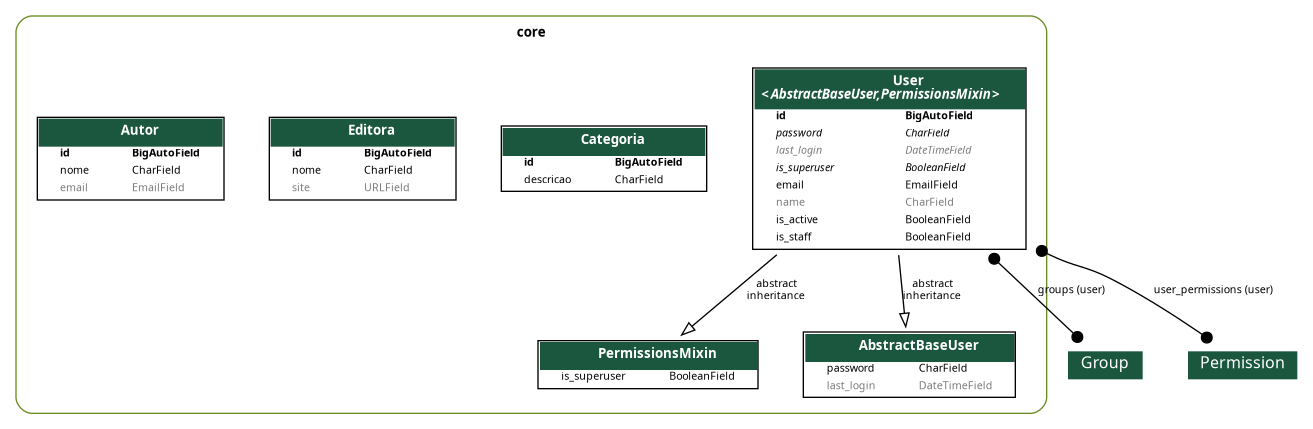
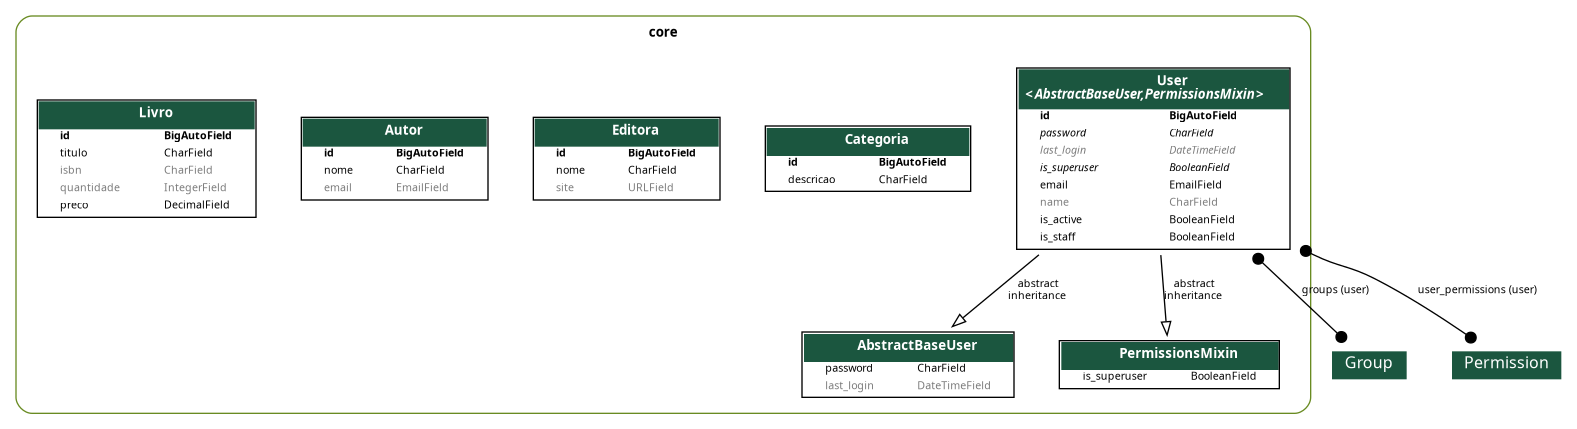
feat: criação da entidade para Livro

diff --git a/core/migrations/0010_livro.py b/core/migrations/0010_livro.py
@@ -1,0 +1,23 @@
+# Generated by Django 5.2.12 on 2026-04-07 18:57
+
+from django.db import migrations, models
+
+
+class Migration(migrations.Migration):
+
+    dependencies = [
+        ('core', '0009_autor'),
+    ]
+
+    operations = [
+        migrations.CreateModel(
+            name='Livro',
+            fields=[
+                ('id', models.BigAutoField(auto_created=True, primary_key=True, serialize=False, verbose_name='ID')),
+                ('titulo', models.CharField(max_length=100)),
+                ('isbn', models.CharField(blank=True, max_length=32, null=True)),
+                ('quantidade', models.IntegerField(blank=True, default=0, null=True)),
+                ('preco', models.DecimalField(decimal_places=2, default=0, max_digits=7)),
+            ],
+        ),
+    ]

diff --git a/app/urls.py b/app/urls.py
@@ -12,10 +12,11 @@ from rest_framework_simplejwt.views import (
     TokenVerifyView,
 )
 
-from core.views import CategoriaViewSet, EditoraViewSet, UserViewSet,AutorViewSet, UserRegistrationView
+from core.views import CategoriaViewSet, EditoraViewSet, LivroViewSet, UserViewSet,AutorViewSet, UserRegistrationView
 
 router = DefaultRouter()
 
+router.register(r'livros', LivroViewSet, basename='livro')
 router.register(r'autores', AutorViewSet, basename='autor')
 router.register(r'categorias',CategoriaViewSet)
 router.register(r'editoras', EditoraViewSet)

diff --git a/core/models/livro.py b/core/models/livro.py
@@ -1,0 +1,12 @@
+from pickle import TRUE
+
+from django.db import models
+
+class Livro(models.Model):
+    titulo = models.CharField(max_length=100)
+    isbn = models.CharField(max_length=32, null=True, blank=True)
+    quantidade = models.IntegerField(default=0, null=True, blank=True)
+    preco = models.DecimalField(max_digits=7,decimal_places=2, default=0)
+
+    def __str__(self):
+        return f'({self.id}) {self.titulo} ({self.quantidade})'

diff --git a/core/views/livro.py b/core/views/livro.py
@@ -1,0 +1,7 @@
+from rest_framework.viewsets import ModelViewSet
+from core.models import Livro
+from core.serializers import LivroSerializer
+
+class LivroViewSet(ModelViewSet):
+    queryset = Livro.objects.all()
+    serializer_class = LivroSerializer

diff --git a/core/serializers/__init__.py b/core/serializers/__init__.py
@@ -2,3 +2,4 @@ from .user import UserRegistrationSerializer, UserSerializer
 from .categoria import CategoriaSerializer
 from .editora import EditoraSerializer
 from .autor import AutorSerializer
+from .livro import LivroSerializer

diff --git a/core/serializers/livro.py b/core/serializers/livro.py
@@ -1,0 +1,9 @@
+
+from rest_framework.serializers import ModelSerializer
+
+from core.models import Livro
+
+class LivroSerializer(ModelSerializer):
+    class Meta:
+        model =  Livro
+        fields = '__all__'

diff --git a/core/views/__init__.py b/core/views/__init__.py
@@ -2,3 +2,4 @@ from .user import UserRegistrationView, UserViewSet
 from .categoria import CategoriaViewSet
 from .editora import EditoraViewSet
 from .autor import AutorViewSet
+from .livro import LivroViewSet

diff --git a/core/models/__init__.py b/core/models/__init__.py
@@ -2,3 +2,4 @@ from .user import User
 from .categoria import Categoria
 from .editora import Editora
 from .autor import Autor
+from .livro import Livro
